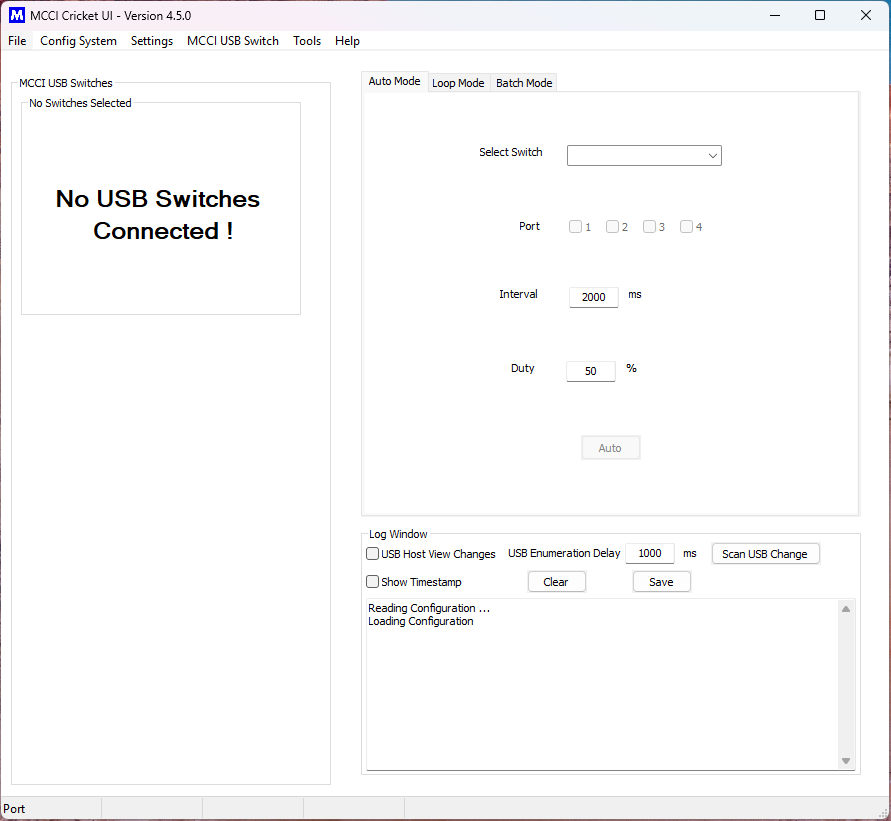
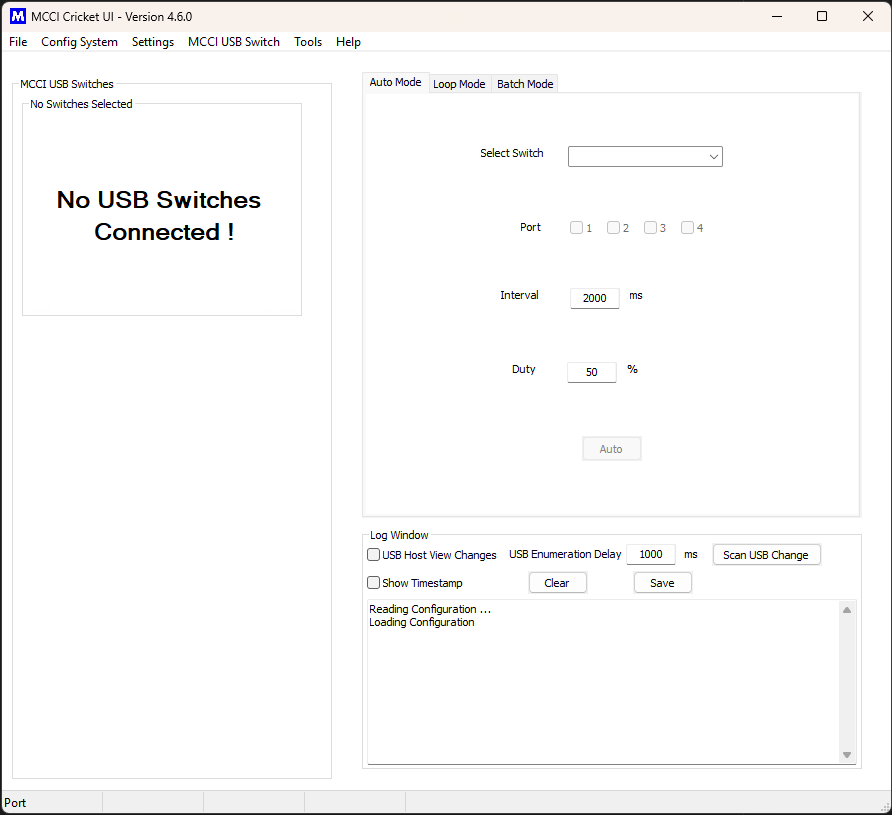
README.md updated

diff --git a/README.md b/README.md
@@ -4,7 +4,7 @@ This repository contains the source code for Cricket UI, a standalone desktop ap
 
 **Note:** Prepackaged, signed releases are available at [`COLLECTION-Cricket-UI/releases`](https://github.com/mcci-usb/COLLECTION-cricket-ui/releases). Only use this repository directly if you want to do source code development.
 
-[![Git release](https://img.shields.io/badge/release-v4.5.0-blue)](https://github.com/mcci-usb/COLLECTION-cricket-ui/releases/tag/v4.5.0)
+[![Git release](https://img.shields.io/badge/release-v4.5.0-blue)](https://github.com/mcci-usb/COLLECTION-cricket-ui/releases/tag/v4.6.0)
 <!-- markdown-shield -->
 
 ## List of Contents
@@ -274,8 +274,12 @@ The MCCI USB Switch 2301 Type-A Connection Exerciser provides a four-to-one USB 
 
 ## Release History
 
--  v4.5.0 is patach release its contains the following chnages.
+- v4.6.0 is patch release its contains the following changes.
+   - Firmware update hangs on second attempt due to USB device resource not released [#150](https://github.com/mcci-usb/Cricket/commit/55146dc416d131d1c825ecefa2c62bab2779ce4e)
 
+   - Incorrect behavior: V/I Plot opens as popup [#149](https://github.com/mcci-usb/Cricket/commit/35b79712840b4eebb2f5ad41a03d97589d82f1ab)
+
+- v4.5.0 is patch release its contains the following changes.
    - device Detects Different COM Port After Switching to Boot Mode During Firmware Update[#147](https://github.com/mcci-usb/Cricket/commit/290560d239955475b5c467f85b4859e75f00d23c)
 
 - v4.3.0 is patch release it contains the following changes.

diff --git a/VERSION.md b/VERSION.md
@@ -1,1 +1,1 @@
-4.5.0
+4.6.0
